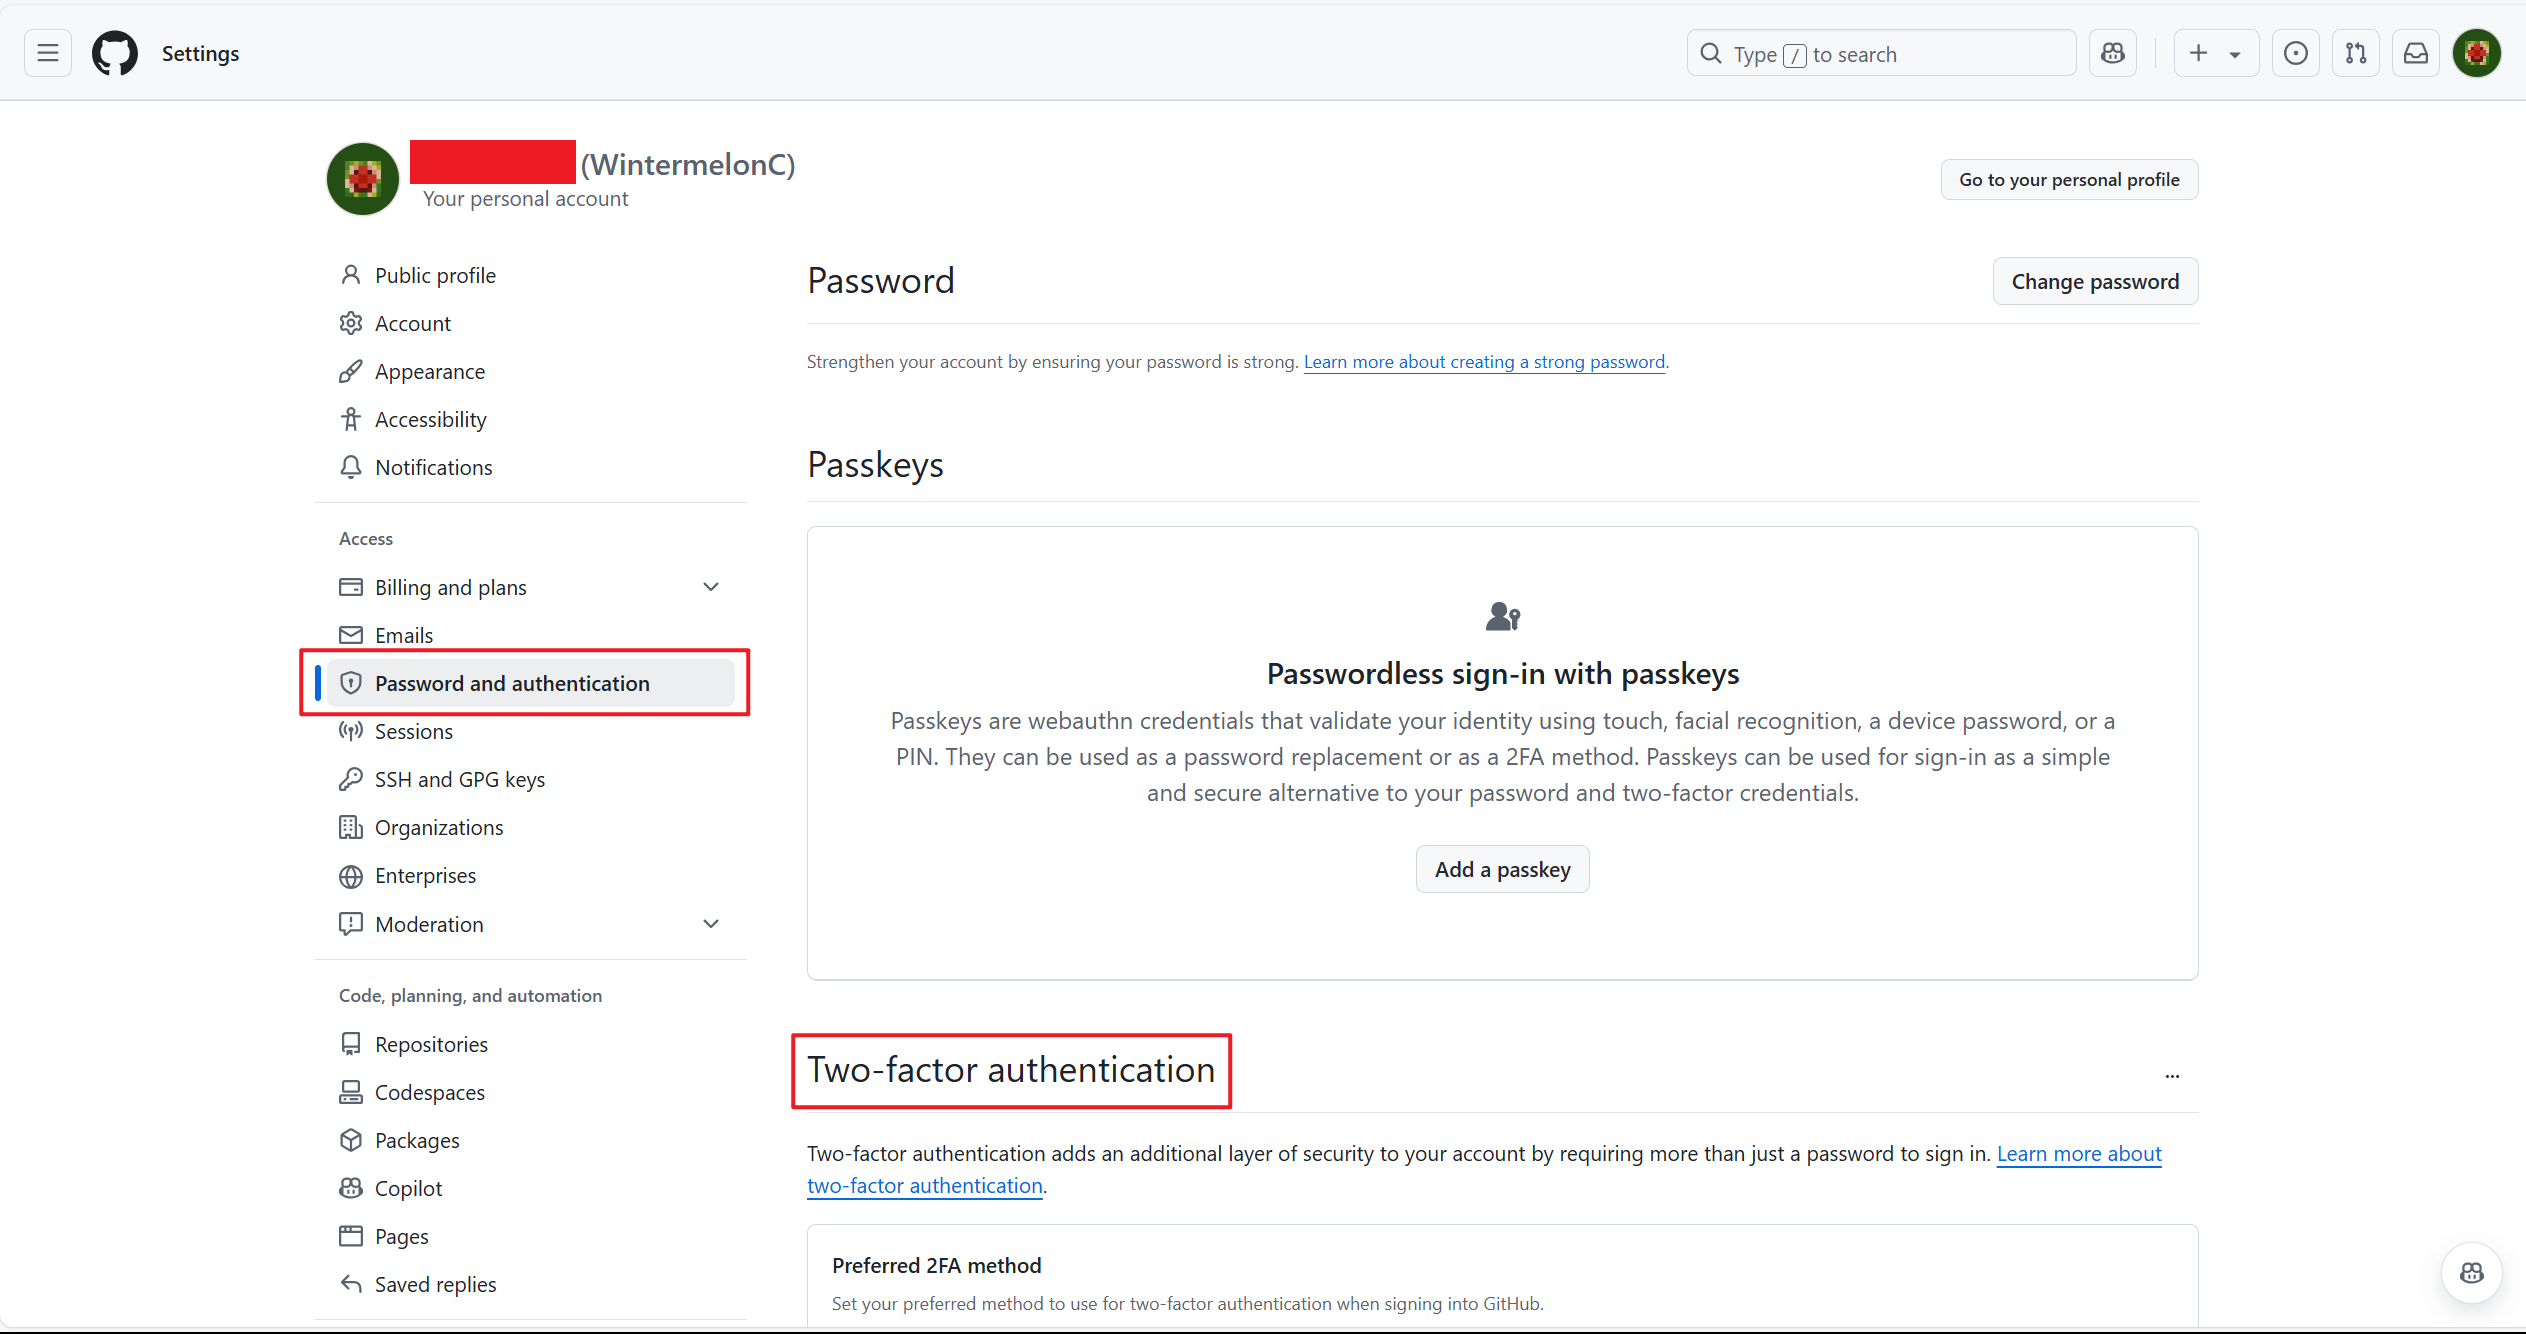
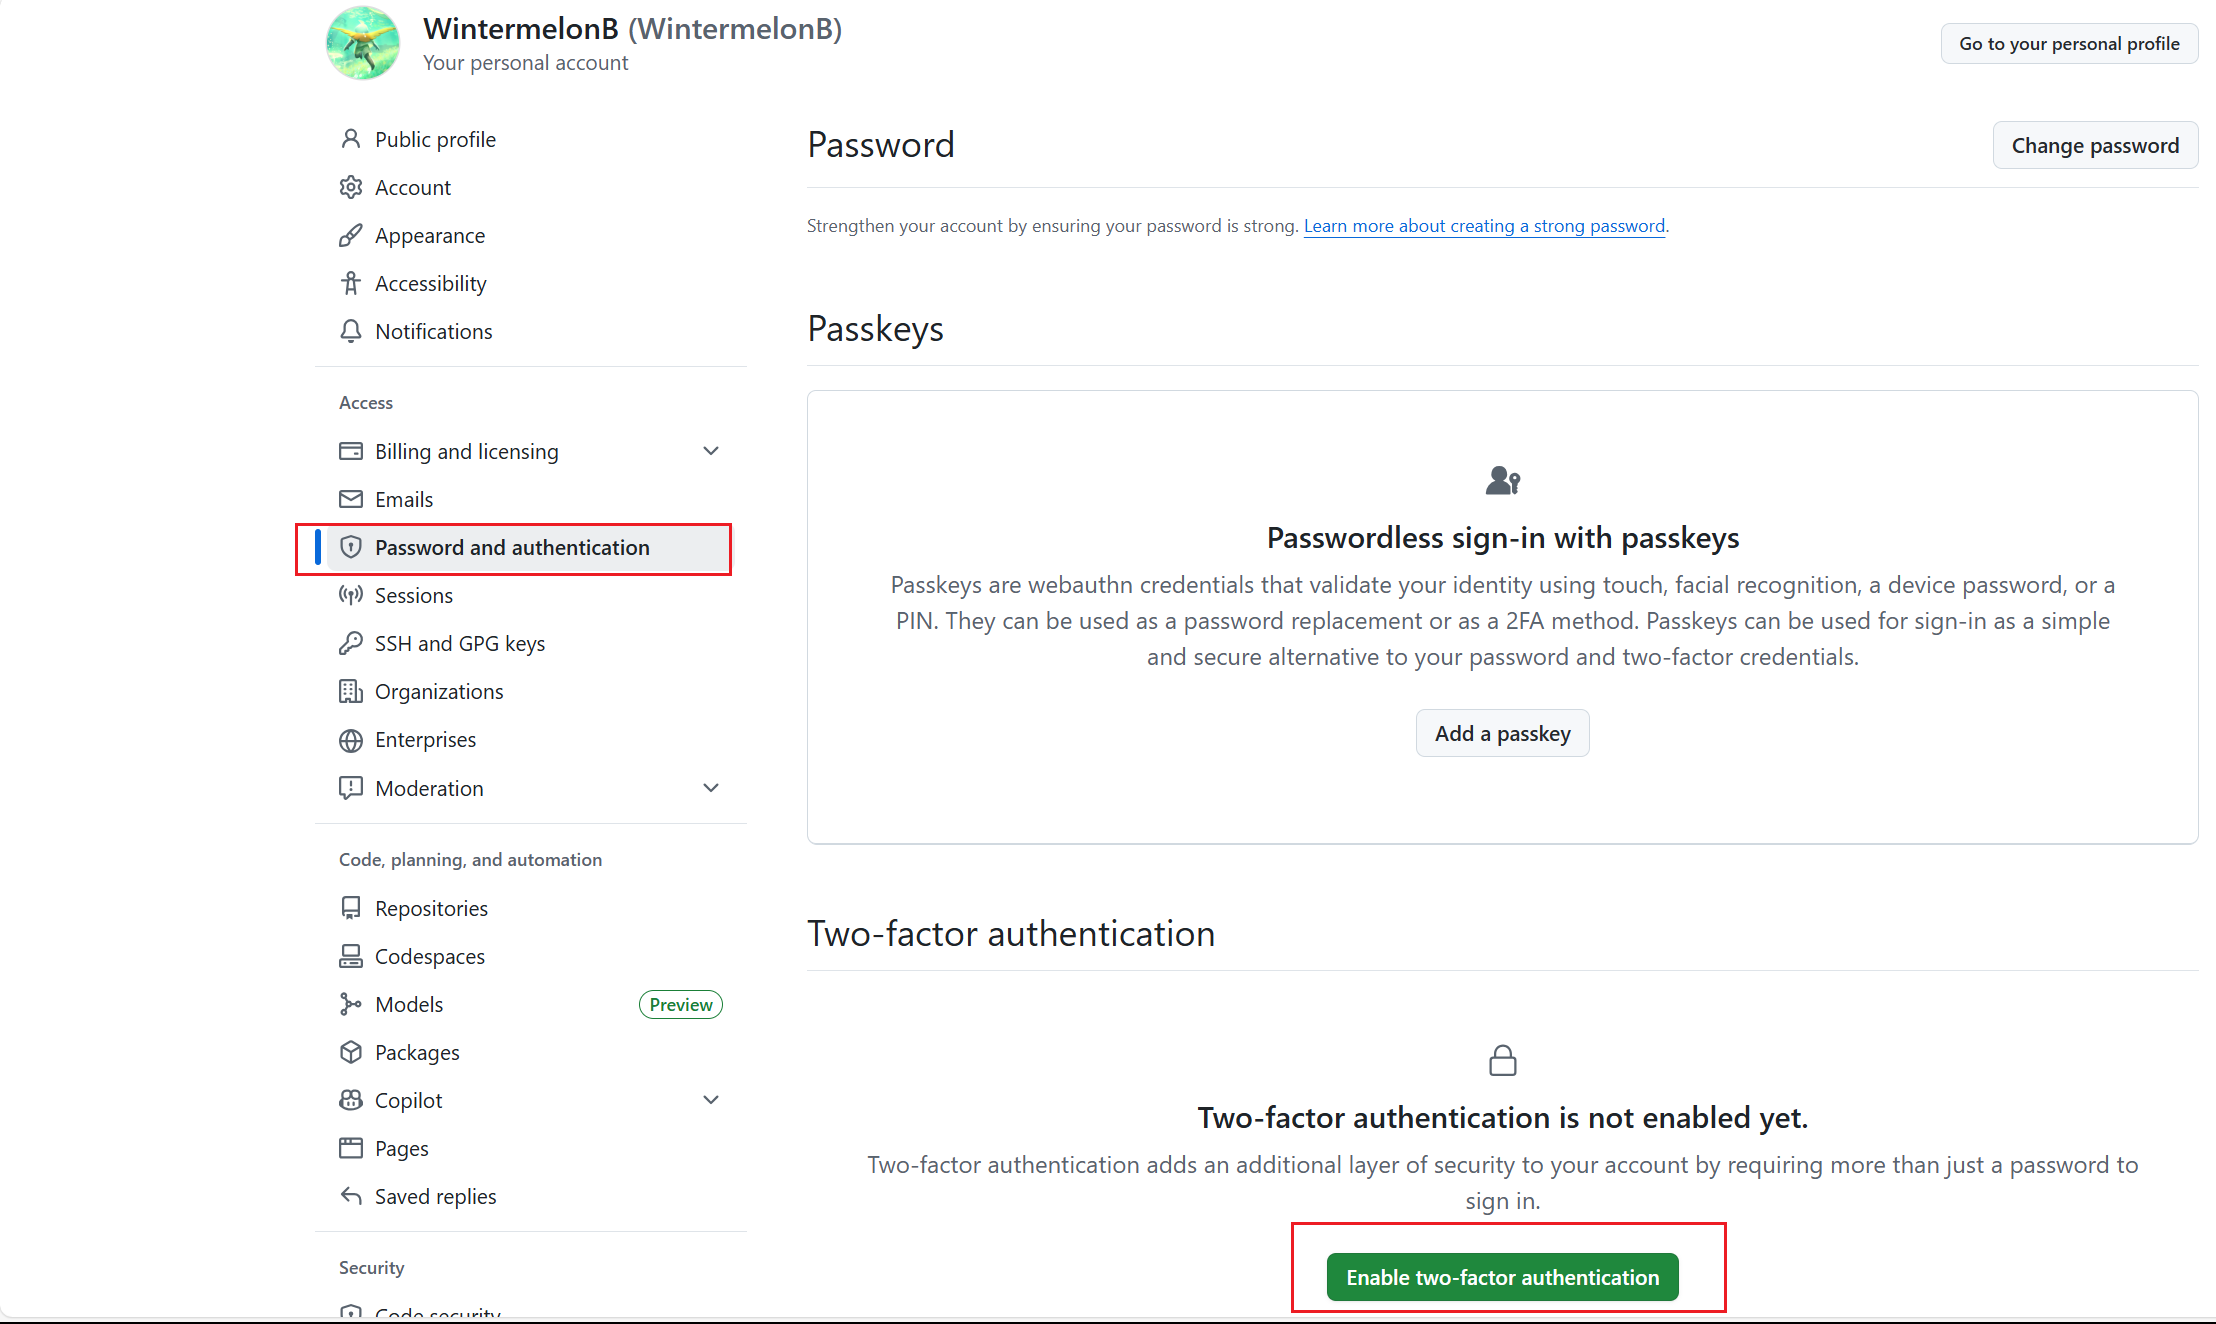
complete some docs

diff --git a/docs/tools/github/index.md b/docs/tools/github/index.md
@@ -1,8 +1,8 @@
 # Github
 
-!!! tip "说明"
+<!-- !!! tip "说明"
 
-    本文档正在更新中……
+    本文档正在更新中…… -->
 
 !!! info "AI 介绍"
 
@@ -59,6 +59,58 @@
 
 ## 1 注册
 
+国内用户访问 GitHub 较慢，解决方法是使用一些加速器或者科学上网工具
+
+加速器推荐：[Watt Toolkit](../../application/watt_toolkit/index.md){:target="_blank"}
+
+访问 GitHub 并注册账号：[GitHub](https://github.com/){:target="_blank"}
+
+> 注册账号时，如果你使用的是 QQ 邮箱，建议去 QQ 邮箱那里设置 **英文别名**，避免直接用 `{QQ 号}@qq.com`，造成信息泄露
+
+注册完毕后，点击右上角头像，可以先自行探索一下这些菜单
+
+<figure markdown="span">
+  ![Img 1](../../img/github/github_img1.png){ width="600" }
+</figure>
+
 ## 2 设置
 
-### 2.1 邮箱
+点击右上角头像，打开设置
+
+<figure markdown="span">
+  ![Img 2](../../img/github/github_img2.png){ width="600" }
+</figure>
+
+### 2.1 Public profile
+
+公开展示的一些信息
+
+### 2.2 Emails
+
+这里可以对邮箱进行设置
+
+<figure markdown="span">
+  ![Img 3](../../img/github/github_img3.png){ width="600" }
+</figure>
+
+可以开启 ^^Keep my email addresses private^^ 功能，开启后
+
+1. 个人邮箱会隐藏，转而使用格式类似于 `223077261+WintermelonB@users.noreply.github.com` 的邮箱
+2. 同时，需要修改电脑上的 git 配置。比如我就需要修改 `user.email` 为 `223077261+WintermelonB@users.noreply.github.com` 即可
+3. 可以开启 ^^Block command line pushes that expose my email^^：如果 git 提交信息里包含了个人邮箱，github 会拒绝掉这次提交，保护个人邮箱
+
+### 2.3 Password and authentication
+
+这里可以修改密码，添加 Passkeys，启用 Two-factor authentication
+
+如果想要申请 Github 学生认证，就需要启用 Two-factor authentication，详见 [2FA](../../application/vscode/copilot.md#2fa){:target="_blank"}
+
+## 3 仓库
+
+可以访问一下大名鼎鼎的 linux 项目，可以在上方搜索框中搜索
+
+<figure markdown="span">
+  ![Img 4](../../img/github/github_img4.png){ width="600" }
+</figure>
+
+可以自行探索一下 Github 的仓库页面，具体详见 [git 远程操作](../git/ch4.md){:target="_blank"}

diff --git a/docs/application/watt_toolkit/index.md b/docs/application/watt_toolkit/index.md
@@ -1,8 +1,8 @@
 # Watt Toolkit
 
-!!! tip "说明"
+<!-- !!! tip "说明"
 
-    本文档正在更新中……
+    本文档正在更新中…… -->
 
 !!! info "AI 介绍"
 
@@ -30,3 +30,51 @@
     
     - 使用网络加速功能时，需确保遵守平台的服务条款，避免滥用
     - 部分功能（如成就解锁）可能涉及风险，建议谨慎使用
+
+软件下载：[瓦特工具箱(Steam++官网) - Watt Toolkit](https://steampp.net/){:target="_blank"}
+
+> 我只知道怎么用，但是不知道为什么要这样做 😂
+
+<figure markdown="span">
+  ![Img 1](../../img/watt_toolkit/watt_img1.png){ width="600" }
+</figure>
+
+在网络加速这里可以选择各种平台进行加速，包括 Steam、Github、OneDrive 等等
+
+加速设置里面打开 ^^启用脚本^^，然后点击 ^^代理设置^^
+
+<figure markdown="span">
+  ![Img 2](../../img/watt_toolkit/watt_img2.png){ width="600" }
+</figure>
+
+有两种加速方式
+
+**1.使用自定义代理 DNS**
+
+!!! info "什么是 DNS"
+
+    我们平时访问什么网站，通常会记住它们的 **域名**（如 `www.baidu.com`）。但计算机之间是通过 **IP 地址**（如 `223.109.82.16`）进行通信的。那么 DNS 服务就是将我们记住的域名转换为计算机可识别的 IP 地址，从而实现计算机之间的通信
+
+设置如下：
+
+<figure markdown="span">
+  ![Img 3](../../img/watt_toolkit/watt_img3.png){ width="600" }
+</figure>
+
+其中 ^^自定义代理 DNS^^ 可以自行切换。如果启用加速以后，相关网站依旧连接不了，就可以尝试切换其他的代理 DNS，或者使用第 2 种方法
+
+**2.启用 DoH**
+
+!!! info "什么是 DoH"
+
+    DoH（DNS over HTTPS）是一种通过 HTTPS 协议加密 DNS 查询的技术，旨在保护用户的 DNS 请求隐私，防止被窃听或篡改
+
+    简单理解就是在 DNS 的基础上，还有一个加密手段
+
+设置如下：
+
+<figure markdown="span">
+  ![Img 4](../../img/watt_toolkit/watt_img4.png){ width="600" }
+</figure>
+
+其中 ^^自定义 DoH 地址^^ 可以自行切换。如果启用加速以后，相关网站依旧连接不了，就可以尝试切换其他的 DoH 地址，或者使用第 1 种方法

diff --git a/docs/application/vscode/copilot.md b/docs/application/vscode/copilot.md
@@ -22,9 +22,29 @@
     ![img 1](../../img/copilot/copilot_img1.png){width="800"}
 </figure>
 
-启用 2FA 验证，可以在手机上下载微软的 Authenticator 软件，免费的
+点击按钮启用 2FA 验证
 
-> 详细的教程可以自行搜索
+**1.Setup authenticator app**
+
+<figure markdown="span">
+    ![img 7](../../img/copilot/copilot_img7.png){width="800"}
+</figure>
+
+可以在手机上下载微软的 Authenticator 软件，免费的
+
+扫描电脑上的 QR code，Authenticator 会添加一个验证，然后点进去有一串每隔 30 秒切换一次的 ^^一次性密码代码^^，在电脑上的 ^^Verify the code from the app^^ 输入框中输入这个一次性密码代码即可
+
+**2.Download your recovery codes**
+
+可以下载一下这个恢复密钥，并保存到不易泄露的地方
+
+**3.Don't get locked out, configure additional authentication methods**
+
+然后就设置完成了
+
+---
+
+可以返回刚才的设置页面，看一下变化
 
 ### 材料认证
 

diff --git a/docs/tools/git/ch4.md b/docs/tools/git/ch4.md
@@ -4,8 +4,16 @@
 
     本文档正在更新中……
 
+!!! tip "建议"
+
+    git 其实很简单，多多实操就会了。建议跟着本文档实操一遍
+
+    在实操过程中，可能会遇到各种各样奇奇怪怪的网络问题，本文档提供的解决方法肯定是不全的，需要自行善用搜索解决
+
 ## 1 Github
+
+详见 [Github](../github/index.md){:target="_blank"}
 
 ## 2 SSH 配置
 
-## 3 Git 远程操作
+## Git 远程操作

diff --git a/docs/index.md b/docs/index.md
@@ -83,11 +83,11 @@ hide:
         - [x] 编写 VSCode 文档
         - [ ] 编写 Git 文档
             - [x] ch 1
-            - [ ] ch 2
-            - [ ] ch 3
+            - [x] ch 2
+            - [x] ch 3
             - [ ] ch 4
             - [ ] ch 5
-        - [ ] 编写 Github 文档
+        - [x] 编写 Github 文档
         - [ ] 编写 Web 文档
         - [ ] 编写 Github Pages 文档
         - [ ] 编写 Markdown 文档
